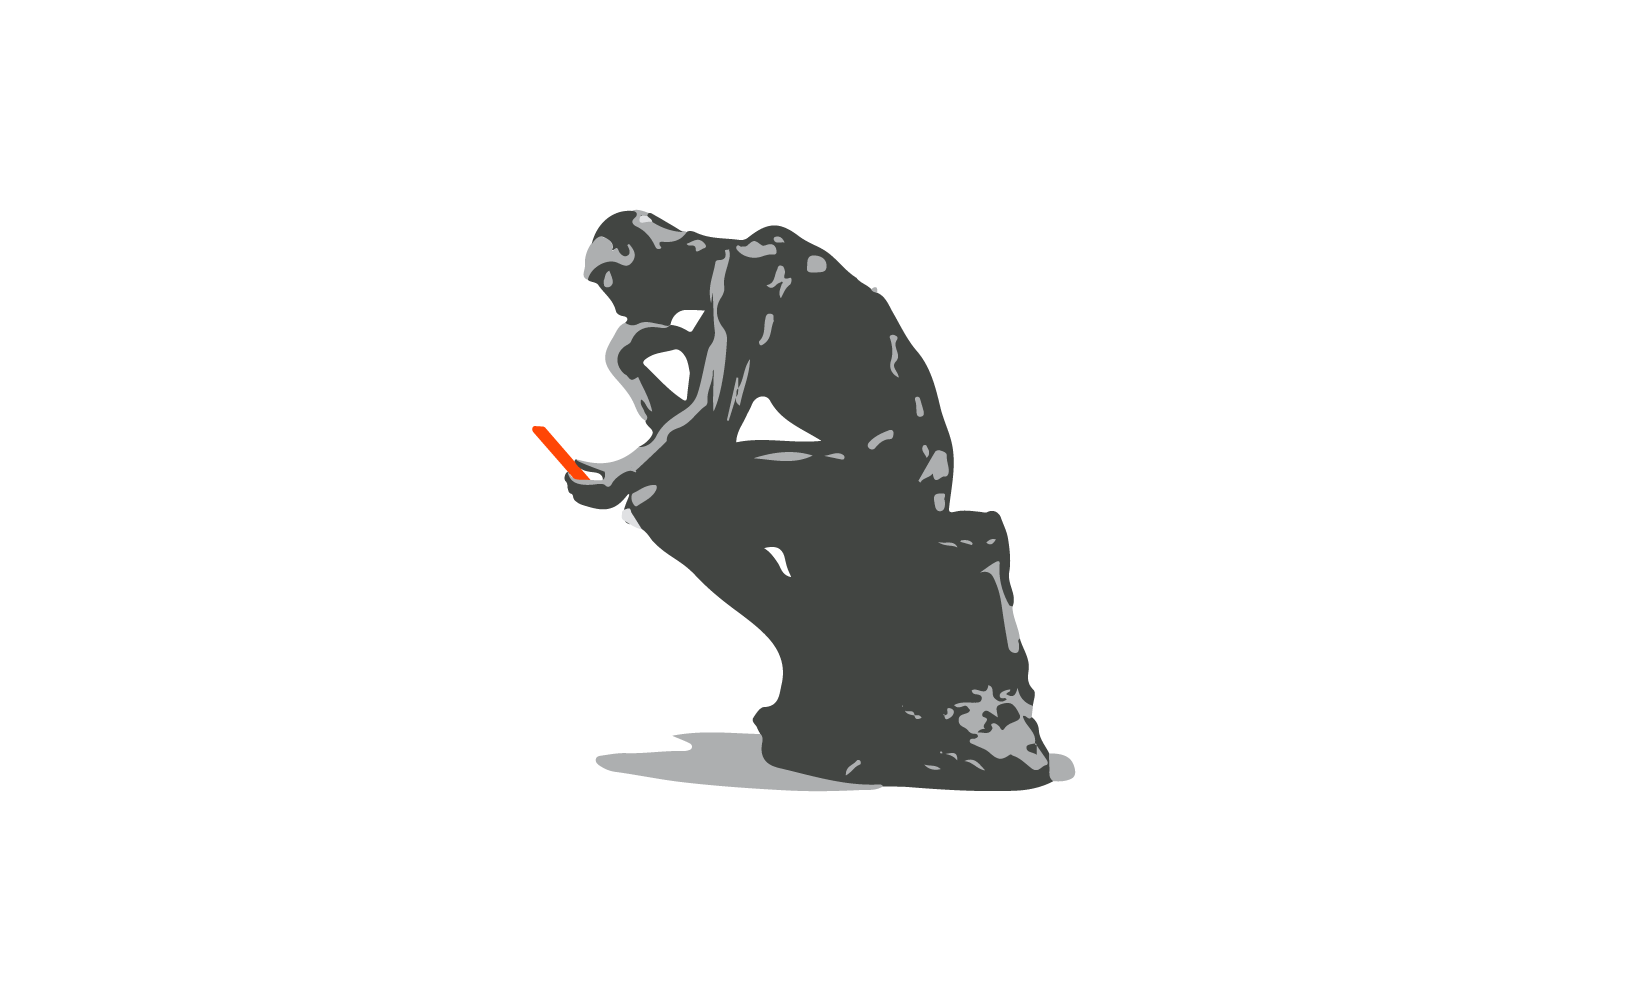
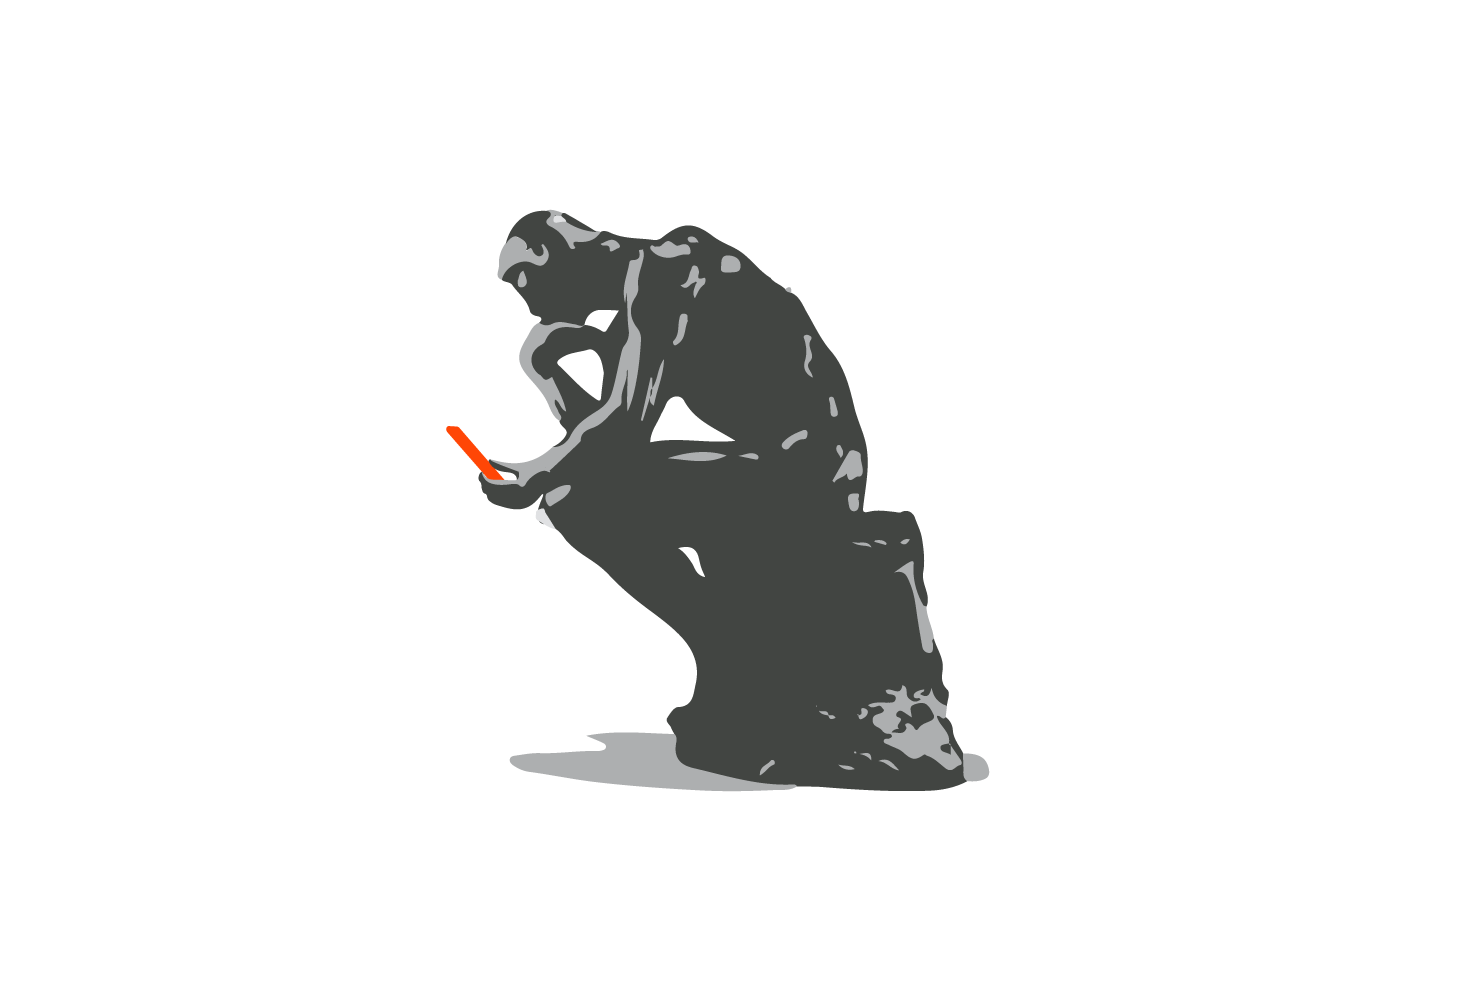
Resizing and cleanup
I resized images and 'gray-filler*' containers to clean up the layout of the home page.

diff --git a/home.css b/home.css
@@ -34,6 +34,10 @@ a:hover{
      color:orangered;
 }
 
+img {
+     object-fit: contain;
+}
+
 .centered{
   resize:none;
   flex-shrink:0;
@@ -136,7 +140,7 @@ a:hover{
   width: 1000px;
   height: auto;
   display: grid;
-  grid-template-columns: 1100px;
+  grid-template-columns: 1000px;
   grid-template-rows: 540px 100px;
 }
 
@@ -228,20 +232,21 @@ a:hover{
 
 /* other stuff*/
 .gray-filler-left{
+     position: relative;
      margin top 100px;
      height: 540px;
-     width: 925px;
-     margin-left: -500px;
+     width: 725px;
      background: none;
      display: flex;
+     justify-content: space-around;
 }
 .gray-filler-right{
      margin top 100px;
      height: 540px;
-     width: 925px;
+     width: 725px;
      background: none;
      display:flex;
-     align-content: flex-start;
+     align-content: space-around;
      
 }
 .hero-image{
@@ -257,4 +262,9 @@ a:hover{
 }
 .spacer{
      margin-top: 100px;
+}
+
+#more-projects{
+     float:
+     
 }

diff --git a/gridded.css b/gridded.css
@@ -100,10 +100,10 @@ a:hover{
   margin-right: calc((100% - 1000px)/2);
   margin-bottom:30px;
   width: 1000px;
-  height: 2019px;
+  height: 1819px;
   display: grid;
   grid-template-columns: 1000px;
-  grid-template-rows: 1358px 100px 544px;
+  grid-template-rows: 1158px 100px 544px;
 }
 
 #sec4-wrapper{
@@ -112,10 +112,10 @@ a:hover{
   margin-right: calc((100% - 1000px)/2);
   margin-bottom:30px;
   width: 1000px;
-  height: 1391px;
+  height: 1191px;
   display: grid;
   grid-template-columns: 1000px;
-  grid-template-rows: 1391px;
+  grid-template-rows: 1191px;
 }
 
 #sec5-wrapper{

diff --git a/index.html b/index.html
@@ -108,6 +108,8 @@ var currentScrollPos = window.pageYOffset;
   prevScrollpos = currentScrollPos;
 }
 </script>
+       
 <a href="in-progress.html" class="hed1" id="more-projects"> more projects </a>
+       
      </body>
 </html>
